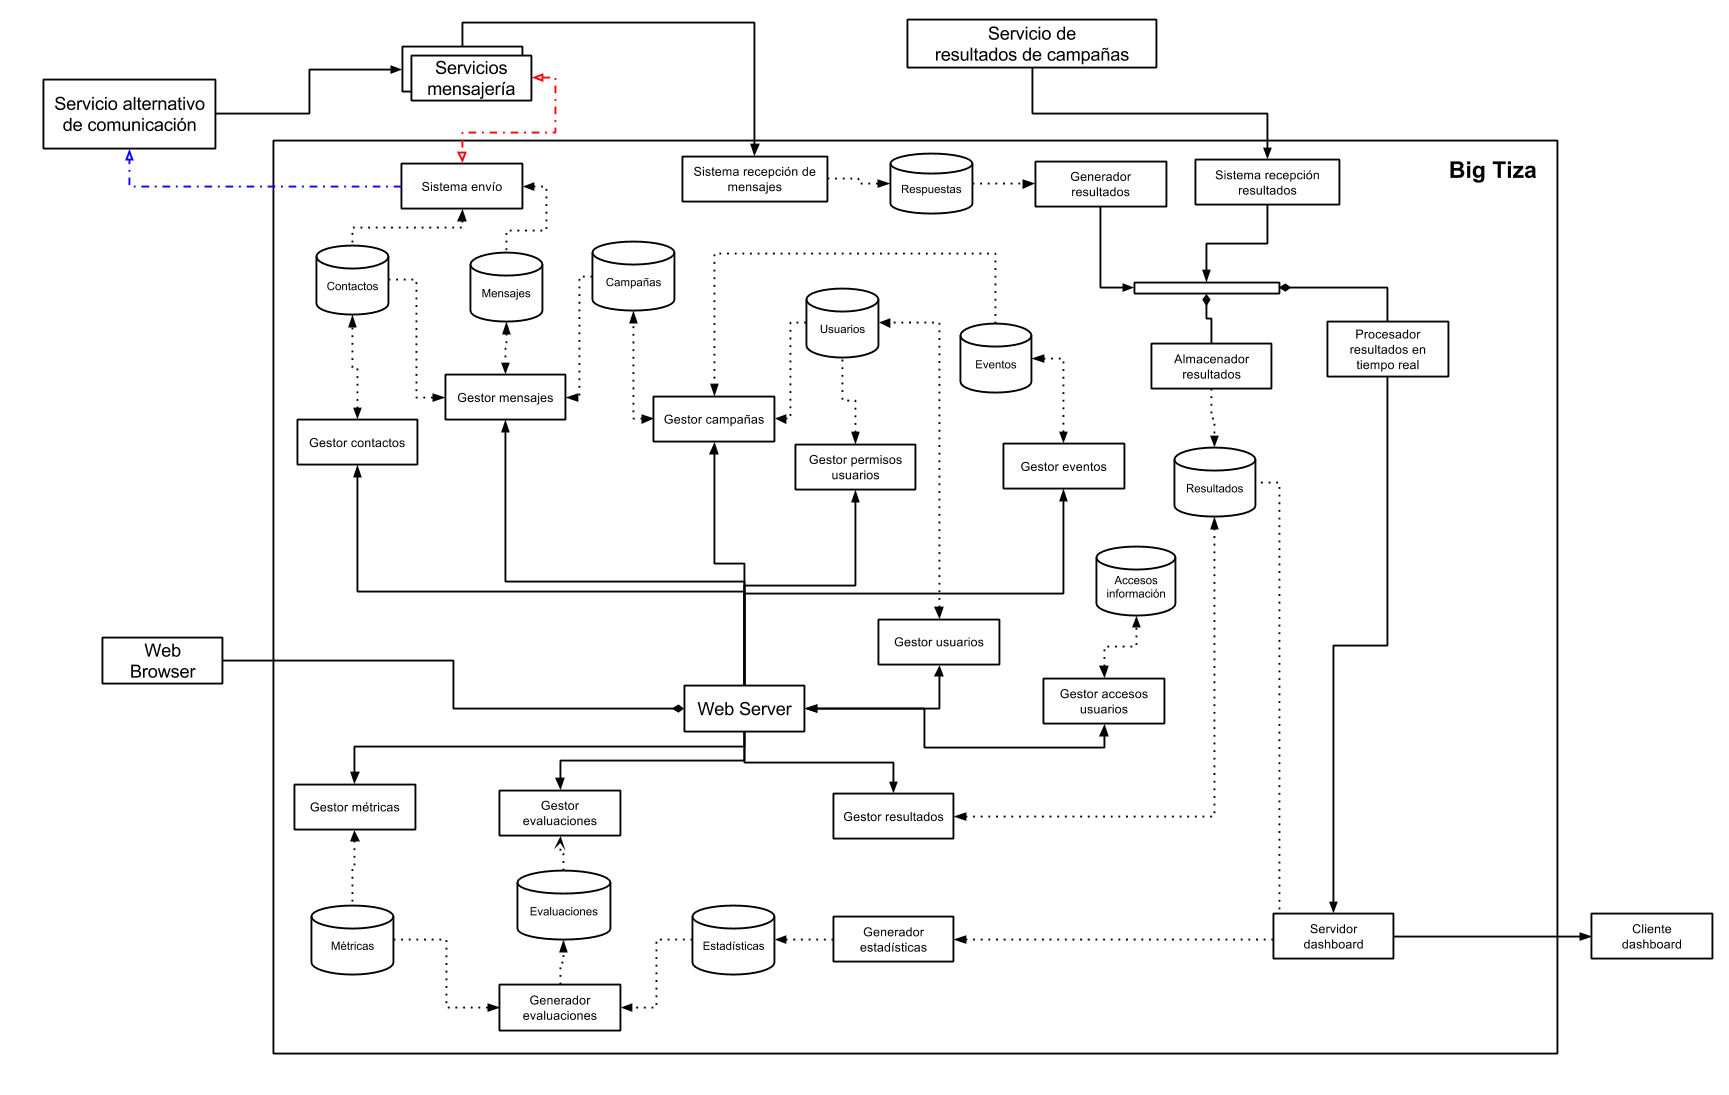
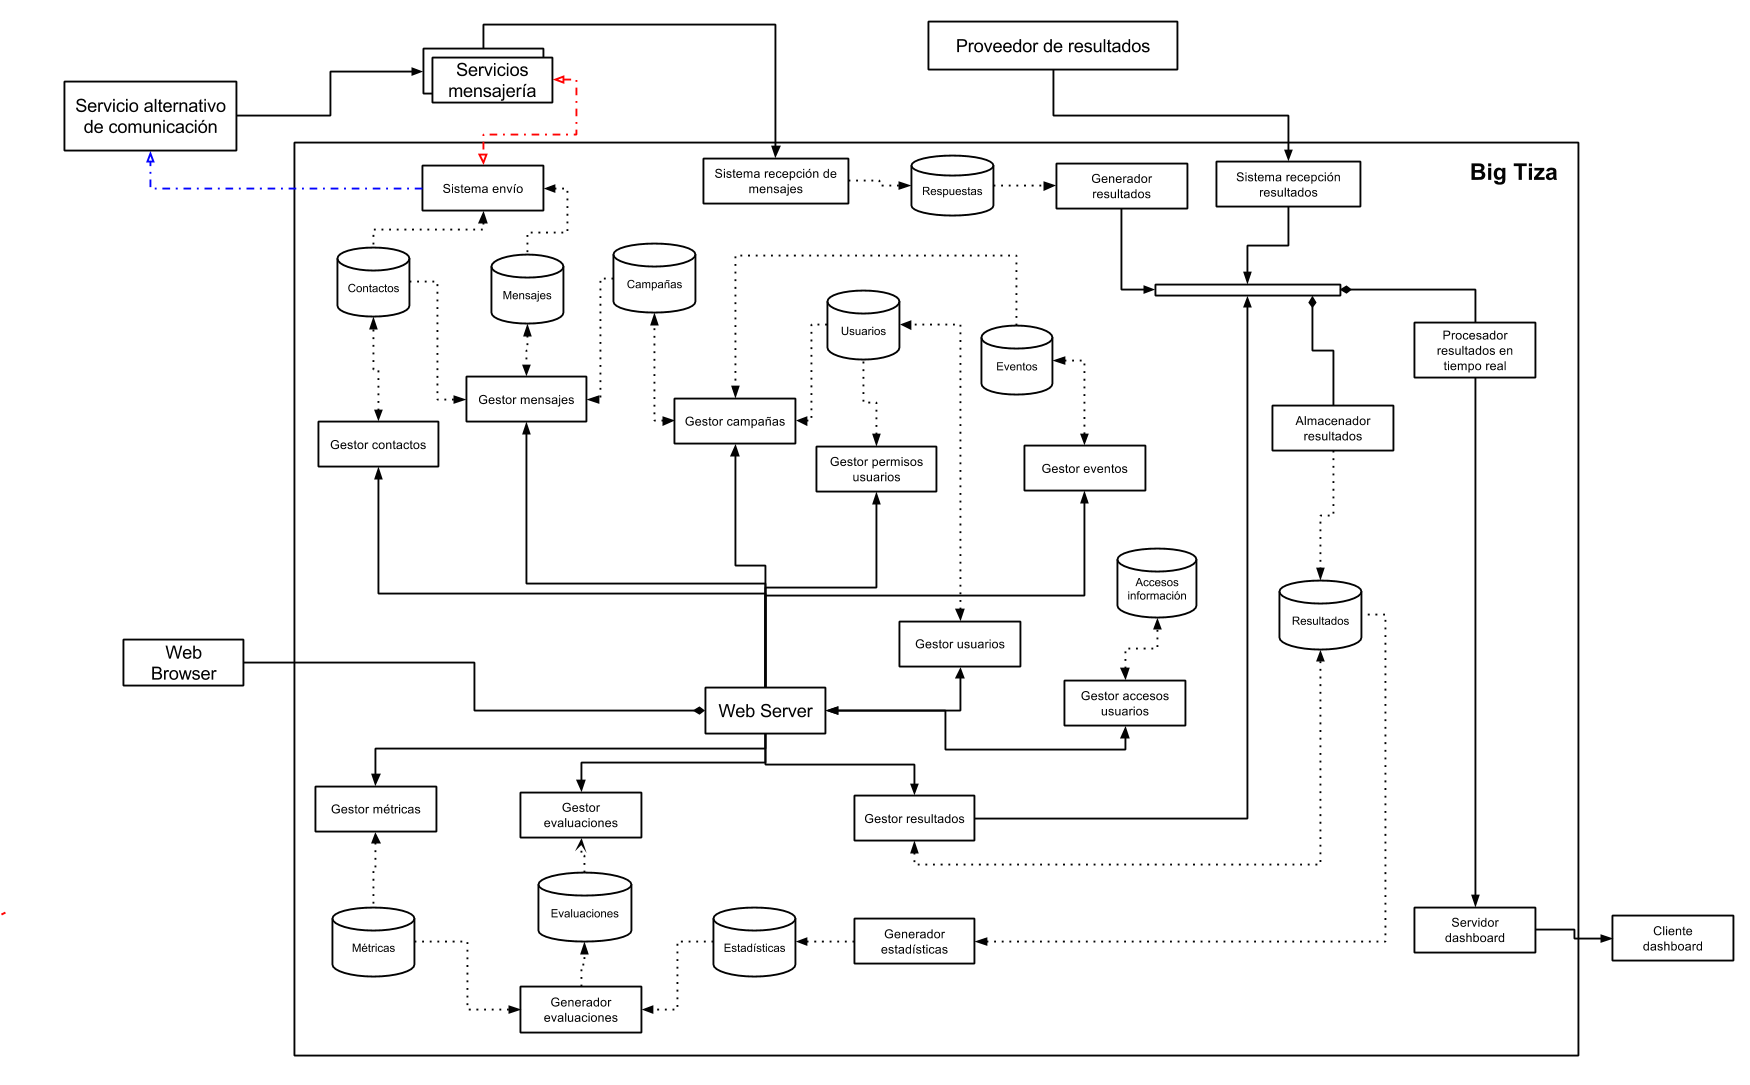
informe

diff --git a/tp2/parte2/informe_tp2.tex b/tp2/parte2/informe_tp2.tex
@@ -70,7 +70,7 @@
 \newpage
 
 \section{Introducci\'on}
-En el Trabajo Práctico 1 se desarrolló e implementó un sistema llamado ''AULA al 2020'' que consiste en un sistema de alertas a los alumnos de una escuela mediante un SMS a sus celulares. Los Docentes y el personal de la Secretaría o Dirección comprendían el usuario del sistema, es decir, quienes creaban campañas y/o eventos, los mensajes para las mismas y al finalizar, cargaban los resultados obtenidos. Debido al gran éxito en la implementación del mismo para una escuela de Urquiza, se decide ampliar el programa para que permita campañas a nivel masivo. Ya no hablamos de una escuela, sino que intervienen munincipios, provincias y a nivel nacional. 
+En el Trabajo Práctico 1 se desarrolló e implementó un sistema llamado ''AULA al 2020'' que consiste en un sistema de alertas a los alumnos de una escuela mediante un SMS a sus celulares. Los Docentes y el personal de la Secretaría o Dirección eran los únicos usuarios del sistema, es decir, quienes creaban campañas y/o eventos, los mensajes para las mismas y al finalizar, cargaban los resultados obtenidos. Debido al gran éxito en la implementación del mismo para una escuela de Urquiza, se decide ampliar el programa para que permita campañas a nivel masivo. Ya no hablamos de una escuela, sino que intervienen munincipios, provincias y la nación. 
 
 Se detallan, en primer lugar, los atributos de calidad junto con sus respectivos escenarios, deducidos a partir de la consigna y de la QAW realizada. 
 Se presentan, entonces, las arquitecturas del sistema inicial (''AULA al 2020'') y la correspondiente al sistema pedido por el Ministro, cuyo alcance es a nivel nacional. Para esta última arquitectura, se trata de cumplir con los objetivos requeridos por el cliente. Por otro lado, se presenta una discusión sobre las diferencias entre las metodologías utilizadas en cada proyecto.
@@ -81,7 +81,7 @@ Se presentan, entonces, las arquitecturas del sistema inicial (''AULA al 2020'')
 \subsection{Listado atributos de calidad definidos}
 \begin{itemize}
 
-\item[Performance] \textit{No se acepta ningún tipo de demoras ante el monitoreo del estado de las campañas.}\\
+\item[Performance] \textit{No se acepta ningún tipo de demoras durante el monitoreo del estado de las campañas.}\\
 \textbf{Fuente}: Externa. \\
 \textbf{Estímulo}: El usuario desea ver el estado actual de la campaña. Requiere visualización de las estadísticas generadas hasta el momento, de los mensajes enviados y los no enviados. \\
 \textbf{Entorno}: Normal.\\
@@ -212,12 +212,12 @@ El \textbf{Sistema de envío} es el encargado de enviar los mensajes. El \emph{T
 La arquitectura de esta parte se realizó contemplando los atributos de calidad nombrados en la sección anterior. A continuación se muestra el diseño realizado para esta parte, seguido de un detalle de desiciones tomadas.
 
 \centerline{\includegraphics[width=1.2\textwidth]{./diagramas/VistaCompyCon.png}}
-\centerline{\includegraphics[width=0.5\textwidth]{./diagramas/ArqTP2Envio.png}}
+\centerline{\includegraphics[width=0.5\textwidth]{./diagramas/ArqTP2conector1.png}}
 
 Al momento de contemplar el atributo de calidad de \underline{Disponibilidad} respecto el envío de mensajes, se tomó la decisión de realizar la conexión entre componente \textbf{Servicios mensajería} y el componente \textbf{Sistema envío}, mediante dos conectores distintos. Dado que se tiene en cuenta que al momento de enviar mensajes, puede fallar la conexión con los distintos servicios (Twitter, Facebook, SMS). 
 Se optó por crear dos conectores para esta unión, uno que muestra la conexión normal, sin fallas, y otro, la conexión considerando falla de comunicación.\\
 
-\centerline{\includegraphics[width=0.5\textwidth]{./diagramas/ArqTP2conector1.png}}
+\centerline{\includegraphics[width=0.5\textwidth]{./diagramas/ArqTP2Envio.png}}
 \centerline{\includegraphics[width=0.5\textwidth]{./diagramas/ArqTP2conector2.png}}
 
 Viendo en detalle el conector rojo, correspondiente al camino con posibles fallas, se puede observar que existe un traductor para poder comunicarse con cada tipo de servicio (Facebook, Twiter etc) ya que cada uno tiene un formato distinto.
@@ -277,10 +277,6 @@ Se observa que la vista de la sección anterior, es representada acá como una \
 \newpage
 
 \include{discusion}
-%\section{Discusión}
-
-%\include{agile_vs_UP}
-%\include{large_vs_small_2}
 
 \newpage
 

diff --git a/tp2/parte2/conclusiones.tex b/tp2/parte2/conclusiones.tex
@@ -1,6 +1,8 @@
 \section{Conclusiones}
 
-En este trabajo pr\'actico se compararon tanto arquitecturas como metodolog\'ias utilizadas para el primer trabajo pr\'actico de la materia con respecto a lo pedido en este trabajo.
-En principio una de las grandes diferencias entre el trabajo pr\'actico 1 (de ahora en m\'as se refiere a este como TP1) con respecto a este, es el volumen de datos, usuarios y servicios de mensajer\'ia. Esto lleva a modelar de forma diferente cada sistema, ya que por ej\'emplo, en este trabajo, se tuvieron en cuenta a la hora de planificar y manejar tiempos, los riesgos, ya que es un proyecto a realizar en un plazo estimado de un a\~no. Por ello para evitar atrasos no contemplados, se trabaja en identificar riesgos y dependencias de tareas que puedan llevar a una demora indeseada. En cambio, en el TP1 al ser un proyecto de tan solo meses, se puede estimar con solo el dise\~no, aunque tambi\'en es una buena pr\'actica la identificaci\'on de dependencias de tareas. \\
-Otra diferencia importante entre el TP1 y \'este es el manejo de Big Data. Esto se vio reflejado en la evaluaci\'on de resultados de campa\~nas, ya que en el TP1, dicha evaluaci\'on se realizaba en su totalidad y en poco tiempo. Sin embargo en el presente trabajo se trabajan con resultados parciales ya que el volumen de datos que se espera recibir es mucho mayor y eso implican demoras a la hora de evaluar la totalidad de datos. Como adem\'as se desea poder observar la campa\~na y tener lo m\'as actualizado posible el resultado, no se podr\'ia lograr esperando el resultado final. \\
-En cuanto a las diferentes metodolog\'ias entre los trabajos mencionados, se not\'o que las metodolog\'ias aplicadas en el TP1 son m\'as din\'amicas ya que se manejan tiempos m\'as cortos, mientas que se notaron procesos m\'as largos en este trabajo, por lo comentado anteriormente en cuanto a, por ej\'emplo, planificaci\'on. Sin embargo, una similitud que se not\'o, aunque no se lleg\'o a aplicar, es que una vez definidas la planificaci\'on, arquitectura y se puede comenzar con el desarrollo del sistema de este trabajo pr\'actico, se pueden combinar metodolog\'ias de trabajo vistas en el TP1, como Scrum, y el manejo de Sprints.
+En este trabajo práctico se compararon tanto las arquitecturas como las metodologías utilizadas para el primer trabajo práctico de la materia con respecto a lo pedido en este.
+En principio una de las grandes diferencias entre el trabajo práctico 1 (de ahora en más se refiere a este como TP1) con respecto al actual, es el importante aumento del volumen de datos, usuarios y incorporación de servicios de mensajería. 
+Esto lleva a modelar de forma diferente cada sistema. Por ejemplo, en el proyecto de Big Tiza, se tuvieron en cuenta a la hora de planificar y manejar tiempos, los riesgos. Esto se debe a que es un proyecto a realizar en un plazo estimado de un año. Para evitar atrasos no contemplados, se trabaja inicialmente en identificar riesgos y dependencias de tareas que puedan llevar a una demora indeseada. En cambio, en el TP1 al ser un proyecto de tan solo meses, se puede estimar con sólo el diseño, la identificación de dependencias de tareas. \\
+Otra diferencia importante entre el proyecto de una escuela y el actual, es el manejo de Big Data. Esto se vio reflejado en la evaluación de resultados de campañas, ya que en el TP1 dicha evaluación se realizaba en su totalidad y en poco tiempo al finalizar la campaña. Sin embargo, en el presente trabajo se analizan resultados parciales ya que el volumen de datos que se espera recibir es mucho mayor. Esto último implica demoras a la hora de evaluar la totalidad de los datos. Por el requerimiento de poder visualizar las estadísticas de las campañas en tiempo real, se debió incorporar un componente que procese resultados constantemente y genere aproximaciones de las mismas. \\
+En cuanto a las diferentes metodologías entre los trabajos mencionados, se notó que las aplicadas en el TP1 son más dinámicas ya que se manejan tiempos más cortos, mientas que se notaron procesos más largos en este trabajo. Sin embargo, al trabajar a distintas escalas se podría combinar ambas técnicas en un mismo proyecto, por ejemplo utilizando la metodología SCRUM en un componente en particular. 
+

diff --git a/tp2/parte2/large_vs_small_2.tex b/tp2/parte2/large_vs_small_2.tex
@@ -1,4 +1,6 @@
 \subsection{Programming in the Large vs Programming in the Small}
-En cuanto al desarrollo de la implementaci\'on del proyecto, dada la diferencia de magnitudes, para las distintas etapas utilizamos dos tipos de t\'ecnicas bastante diferentes. Para el primer caso, el de menor escala, utilizamos la t\'ecnica de programming in the small, la cual se centra en los detalles finos del dise\~no del modelo de datos del negocio. Se buscaespecìficamente que el c\'odigo modele de forma sem\'anticamente correcta las caracter\'isticas de los objetos de inter\'es del mundo real desde la perspectiva del negocio de inter\'es.
+En cuanto al desarrollo de la implementaci\'on del proyecto, dada la diferencia de magnitudes, para las distintas etapas utilizamos dos tipos de t\'ecnicas bastante diferentes. 
+
+Para el primer caso, el de menor escala, utilizamos la t\'ecnica de programming in the small, la cual se centra en los detalles finos del dise\~no del modelo de datos del negocio. Se busca específicamente que el c\'odigo modele de forma sem\'anticamente correcta las caracter\'isticas de los objetos de inter\'es del mundo real desde la perspectiva del negocio de inter\'es.
 
 Por su parte, para el segundo caso, el de mayor escala, se utiliz\'o la t\'ecnica de programming in the large, la cual se centra en la arquitectura general del proyecto, sin hacer tanto incapi\'e en detalles del c\'odigo, sino que se manejan directamente modulos de c\'odigo, componentes y conectores, e incluso componentes de hardware. Ésto nos brinda una visi\'on m\'as general del proyecto, mostrando su interacci\'on con componentes externos y a su vez dando una visi\'on m\'as organizativa en general.

diff --git a/tp2/parte2/large_vs_small.tex b/tp2/parte2/large_vs_small.tex
@@ -2,13 +2,13 @@
 
 En esta secci\'on se comparar\'an la Arquitectura correspondiente al Dise\~no Orientado a Objetos (small programming) y la nueva Arquitectura de gran escala (large programming) correspondientes a este trabajo.
 
+
 {\bf Comunicaciones con entidades externas} \\
 \begin{tabular}{| p{8cm} | p{8cm} |}
 \hline
 Dise\~no O. O. & Arquitectura \\ \hline \hline
 Un solo componente externo, correspondiente al Sitema de Env\'io de Mensajes. Esto se debi\'o a que era el \'unico canal de comunicaci\'on. Con respecto a los resultados, estos eran cargados manualmente al sistema. & La cantidad de canales de comunicaci\'on aumentaron, no s\'olo abarcando al anterior Sistema de Envio de Mensajes, sino tambi\'en a redes sociales como Facebook y Twitter, y la posibilidad de env\'io por Correo Argentino. Para los resultados, como la cantidad de mensajes y respuestas son masivas, hacerlo manualmente ser\'ia imposible. Para esto se cuenta con la opci\'on de poder ser cargadas autom\'aticamente por medio de Web Services externos (como por ejemplo, un Web Service ofrecido por el Ministerio de Salud, para obtener resultados de campa\~nas de salud) \\ \hline
 \end{tabular}
-
 
 {\bf Seguridad de datos} \\
 \begin{tabular}{| p{8cm} | p{8cm} |}

diff --git a/tp2/parte2/discusion.tex b/tp2/parte2/discusion.tex
@@ -1,5 +1,3 @@
 \section{Discusi\'on}
 
 \input{agile_vs_UP}
-
-\input{large_vs_small_2}
